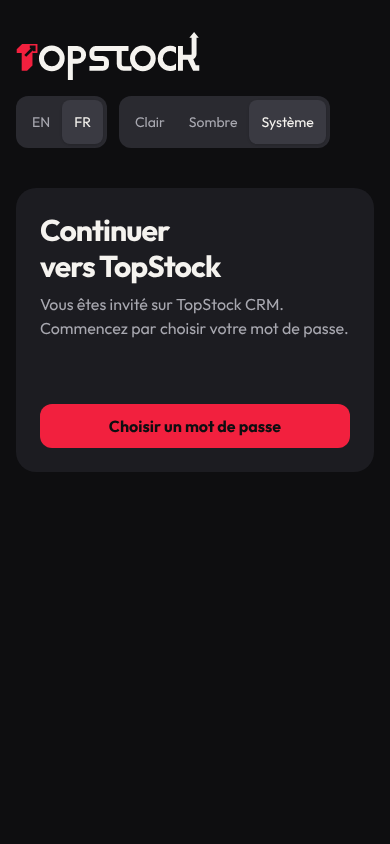
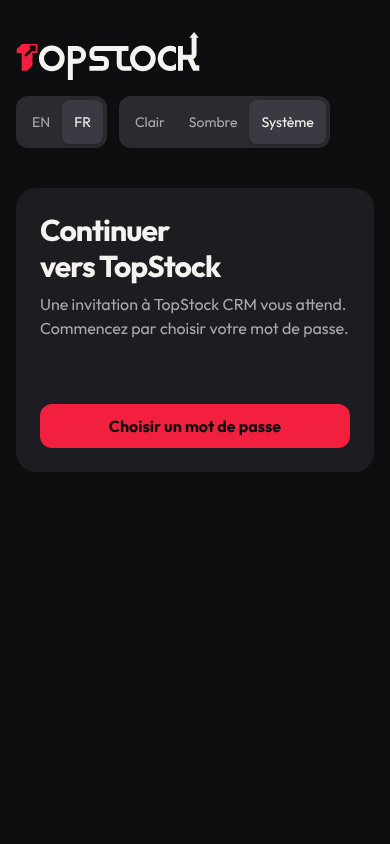
Step 2b evidence: signed-in screenshots from a local Supabase Auth build, audits, security review; neutral French copy
Claude-Session: https://claude.ai/code/session_017iY13emXgm4frkkmSZrEnt

Changed region(s): [[0.0923, 0.3389, 0.8923, 0.3697]]

diff --git a/supabase/templates/invite.html b/supabase/templates/invite.html
@@ -8,7 +8,7 @@
       <p style="margin:0 0 8px;"><a href="{{ .SiteURL }}/auth/confirm?token_hash={{ .TokenHash }}&amp;type=invite" style="display:inline-block;background:#f2203e;color:#0e0e10;font-weight:bold;text-decoration:none;padding:12px 20px;border-radius:12px;">Accept the invitation / Accepter l&#39;invitation</a></p>
       <p style="margin:0;color:#5a5a62;font-size:14px;">This link works once. / Ce lien ne fonctionne qu&#39;une fois.</p>
       <hr style="border:none;border-top:1px solid #ddd9d2;margin:32px 0;" />
-      <h2 style="margin:0 0 8px;font-size:20px;">Vous êtes invité sur TopStock CRM</h2>
+      <h2 style="margin:0 0 8px;font-size:20px;">Votre invitation à TopStock CRM</h2>
       <p style="margin:0;line-height:1.5;">Appuyez sur le bouton pour choisir votre mot de passe, puis activez la double authentification avec une application d&#39;authentification.</p>
     </div>
   </body>

diff --git a/docs/log.md b/docs/log.md
@@ -57,3 +57,4 @@
 | 2026-10-09 | builder | Tests: signed-out suite 18/18 (all app paths redirect to /login, headers on redirects, FR switch, link without token). New CI job `auth-journey`: local Supabase with mail inbox; invite email → choose password (weak and mismatch rejected) → enrolment wall → wrong code rejected → TOTP → home; sign-out; password alone lands on /mfa and cannot reach / or setup; reset requires the code first; unknown address gets the same answer. Plus signed-in screenshots as artifact `auth-screens` |
 | 2026-10-09 | builder | Residual risks recorded in docs/evidence/day1-step2/security-review.md (enrol-on-first-sign-in, shared per-IP rate limits behind Vercel, no recovery codes yet, default Supabase email only reaches the Supabase team: custom SMTP needed before inviting Henri and Kais) |
 | 2026-10-09 | builder | Bug caught by the new auth journey test: `[auth.email] enable_signup = false` (set in step 2a) is the CLI's email provider switch, so it turned off email + password sign-in altogether (token endpoint 422). Set back to true with a comment; invite-only comes from `[auth] enable_signup = false`, now proven by a test (public sign-up answers `signup_disabled`). Never reached dev: config is only pushed on merge |
+| 2026-10-09 | builder | CI on 464e659 all green: quality, semgrep, gitleaks, rls, auth-journey (5 journey tests + 4 screenshot tests on the real local Supabase stack). CI artifacts cannot be downloaded from this VM (blob storage blocked), so `scripts/local-auth/start.sh` builds Supabase Auth from source (pinned commit, Go module proxy) on a throwaway PostgreSQL with a random JWT secret, for local signed-in screenshots and auth tests. French copy made gender-neutral ("Connexion sécurisée…", "Une invitation… vous attend") |

diff --git a/docs/evidence/day1-step2/apple-design-audit.md b/docs/evidence/day1-step2/apple-design-audit.md
@@ -19,5 +19,8 @@ two-factor setup (QR), enter code, signed-in home. One narrow card under the bra
 | 12 | Spatial consistency | Same header, card width and button position on every step; desktop focus lands in the first field, phones wait for a tap | autofocus limited to fine pointers |
 
 Red use: only the primary button on each screen (black text on red, 4.64:1) and the logo mark. Links are grey text with underline on hover.
-Screenshots: this folder (signed-out screens, taken locally: 1280/1440/1728/1024/768/390 for sign-in; 390 and 1440 for the rest,
-EN/FR, light/dark) and the CI artifact `auth-screens` (two-factor setup, enter code, choose password, home: 390 and 1440, EN/FR, light/dark).
+Screenshots (76, this folder): signed-out screens against the dev project (sign-in at 390/768/1024/1280/1440/1728; error, forgot,
+forgot-done, email-link landing at 390 and 1440; EN/FR, light/dark); signed-in screens (two-factor setup with QR, enter code,
+choose password, home; 390 and 1440, EN/FR, light/dark) taken against a real Supabase Auth server built locally
+(`scripts/local-auth/start.sh`); CI produces the same set from the full Supabase stack as artifact `auth-screens`.
+Also fixed after looking at them: French "Vous êtes connecté / invité" assumed a gender, now neutral; home text curly apostrophes.
